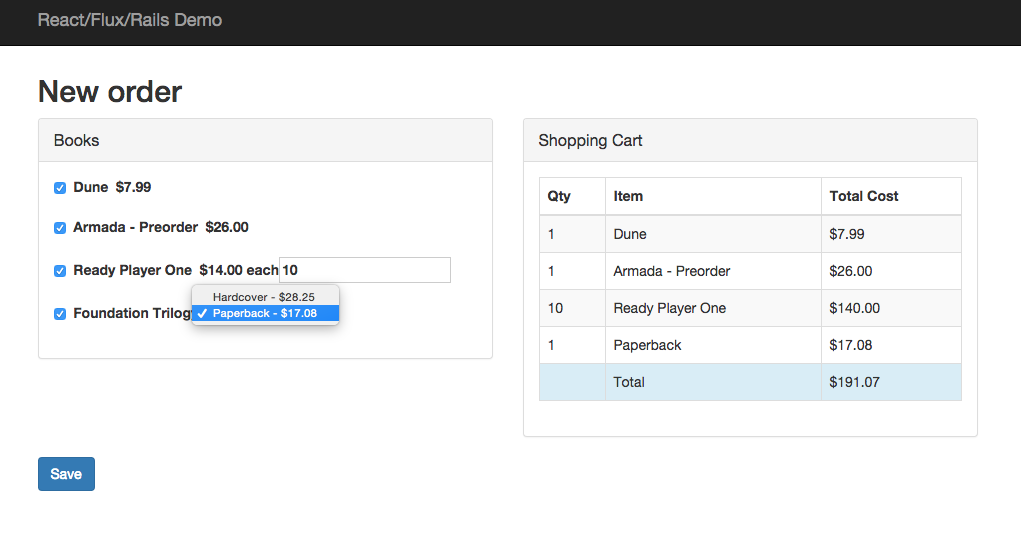
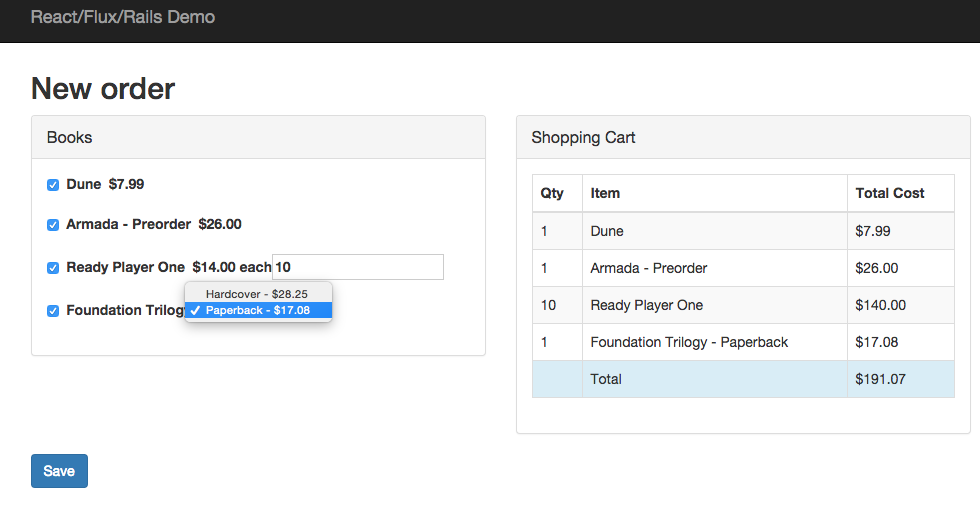
fix(variation names in cart)

diff --git a/app/assets/javascripts/components/selected_selections_list.jsx b/app/assets/javascripts/components/selected_selections_list.jsx
@@ -24,7 +24,7 @@ App.SelectedSelectionsList = React.createClass({
             return (
               <tr>
                 <td>{selection.quantity}</td>
-                <td>{selection.name}</td>
+                <td>{selection.name_to_s}</td>
                 <td>{App.Money.centsToFormatted(selection.quantity * selection.amount_cents)}</td>
               </tr>
               );

diff --git a/app/models/concerns/is_selectable.rb b/app/models/concerns/is_selectable.rb
@@ -18,6 +18,7 @@ module IsSelectable
     {
       id: id,
       name: name,
+      name_to_s: name_to_s,
       amount_cents: amount_cents,
       allowMultiple: allow_multiple,
       maxQuantity: max_quantity.present? ? max_quantity : 1,
